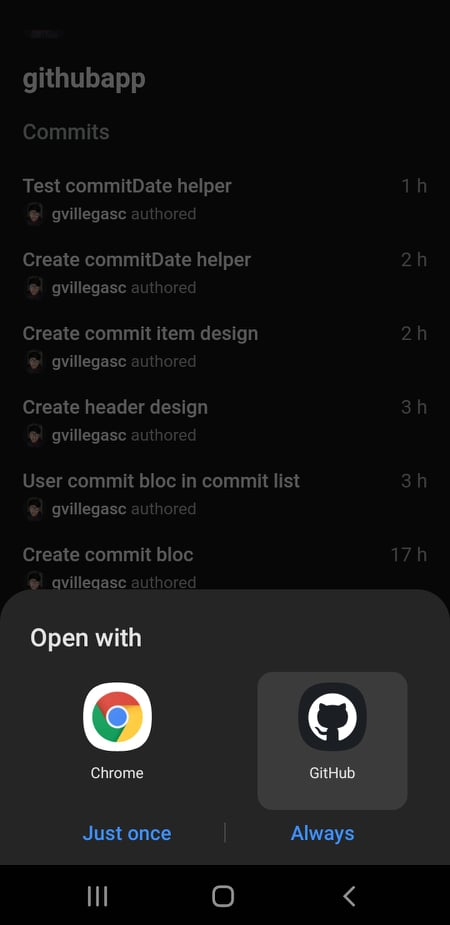
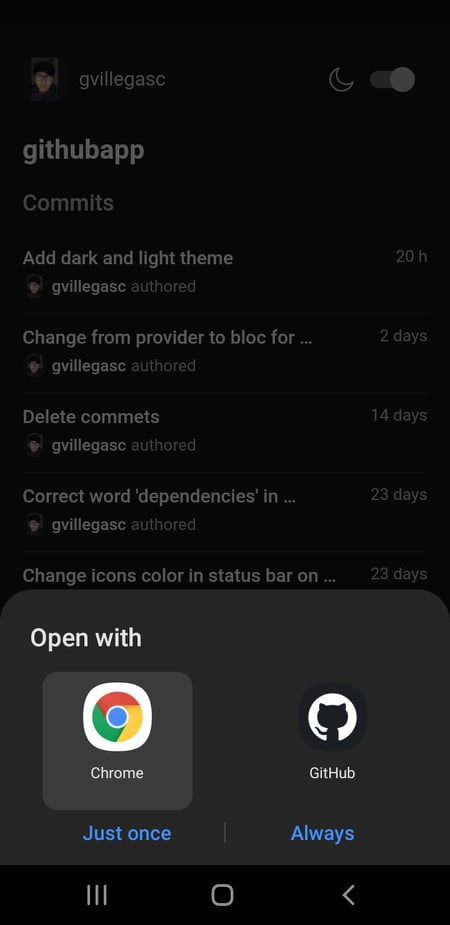
Update README.md file

diff --git a/README.md b/README.md
@@ -37,11 +37,13 @@ flutter run
 
 <table>
     <tr>
-        <th>Commit Page</th>
+        <th>Commit Page Light</th>
+        <th>Commit Page Dark</th>
         <th>See changes</th>
     </tr>
 	<tr>
-        <td><img src="./readme-images/commit-page.jpeg" alt="commit-page" width="200"/></td>
+        <td><img src="./readme-images/commit-page-light.jpeg" alt="commit-page" width="200"/></td>
+        <td><img src="./readme-images/commit-page-dark.jpeg" alt="commit-page" width="200"/></td>
         <td><img src="./readme-images/see-changes.jpeg" alt="see-changes" width="200"/></td>
 	</tr>
 </table>
